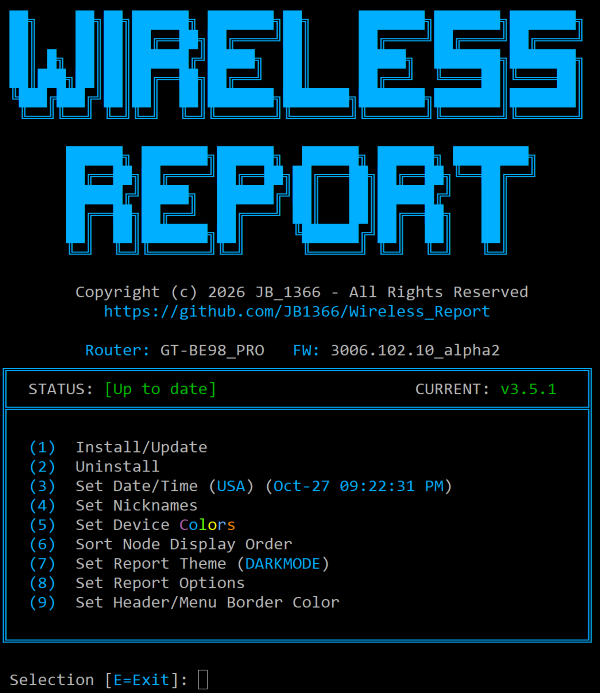
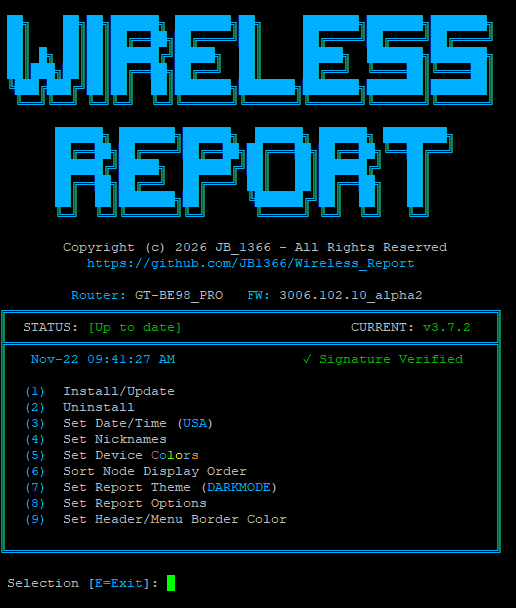
Wireless Report

Changed region(s): [[0.0, 0.0, 0.9922, 1.0]]

diff --git a/README.md b/README.md
@@ -140,13 +140,16 @@ $\color{blue}{\Large\text{Advanced Viewing + Interactive Features}}$<br>
 Wireless Report is designed to be more than just a static table. Use these interactive elements to manage your network:
   * $\color{green}{\text{Version, Hash + Update Alerts:}}$ Hover your mouse over the "Wireless Report" header to instantly check your current script version and view file hash updates—when an update or hash change is available, the header text softly pulses twice to catch your eye. Additionally, the browser tab title displays the active Wireless Report version, dynamically appending an alert whenever a new version or hash update is detected.
   * $\color{green}{\text{Dynamic UI Modes:}}$ Choose how you view your data using the built-in button toggles:<br>
-    * $\color{blue}{\text{Main View:}}$ A clean, vertical list of router and nodes.<br>
-    * $\color{blue}{\text{All Devices:}}$ A consolidated view of every wireless client on the network.<br>
+    * $\color{blue}{\text{Split View:}}$ A clean, vertical list of router and nodes.<br>
+    * $\color{blue}{\text{All View:}}$ A consolidated view of every wireless client on the network.<br>
     * $\color{blue}{\text{Popout View:}}$ Launches a separate window for easier comparison between the Router and Nodes.
-    * $\color{blue}{\text{Wide View:}}$ Expands the existing views to full-page width for a more expansive layout.
+    * $\color{blue}{\text{Wide View:}}$ Expands existing views to full-page width for a wider horizontal layout.
+    * $\color{blue}{\text{Full View:}}$ Expands the active view to fill the full screen or viewport for distraction-free
   * $\color{green}{\text{Visual Notifications:}}$<br>
     * $\color{blue}{\text{New Device Pulse:}}$ The entire row will pulse when a new device is first detected on the network.<br>
-    * $\color{blue}{\text{Uptime Alert:}}$ Spot recent roaming or reconnections instantly with a pulsing indicator for new connections. The sensitivity threshold is now user-definable (default: 15 minutes).
+    * $\color{blue}{\text{Uptime Alert:}}$ Spot recent roaming or reconnections instantly with a pulsing indicator for new connections. The sensitivity threshold is now user-definable (default: 15 minutes).<br>
+    * $\color{blue}{\text{Update Notification:}}$ Click update button to see if a newer version is available, allowing one-click updates.<br>
+    * $\color{blue}{\text{Signature Verification:}}$ Hovering over the header displays a verification tooltip confirming the script's integrity and authenticity.
   * $\color{green}{\text{Custom Refresh Control:}}$ Use the built-in dropdown menu to adjust the Auto-Refresh Interval to suit your monitoring needs.
   * $\color{green}{\text{Node/All Devices Hostname Sorting:}}$ Right-click the Node/All Devices hostnames header to toggle numerical sorting - Nodes 1-3 vs. 3-1, All-Devices (router)1-3 vs. 3-1(router).
   * $\color{green}{\text{Column Sorting:}}$ Remembers column sort-state of all tables, between all refreshes.
@@ -170,10 +173,8 @@ sh /jffs/addons/wireless_report/wirelessreport.sh install
 \
 \
 $\color{blue}{\Large\text{Alias}}$ <br>
-Command Shortcut (Alias)
-
-alias 'wr' is automatically created on new installs/updates.
-
+Command Shortcut (Alias)<br>
+alias 'wr' is automatically created on new installs/updates.<br>
 Typing wr from any location in the SSH terminal will launch the installer.
 
 \
